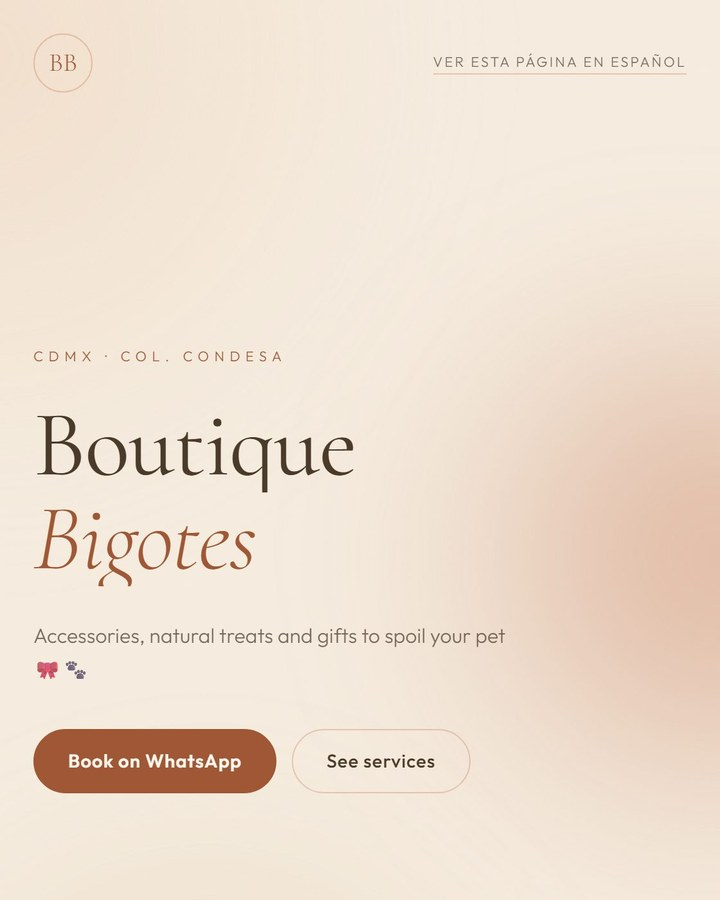
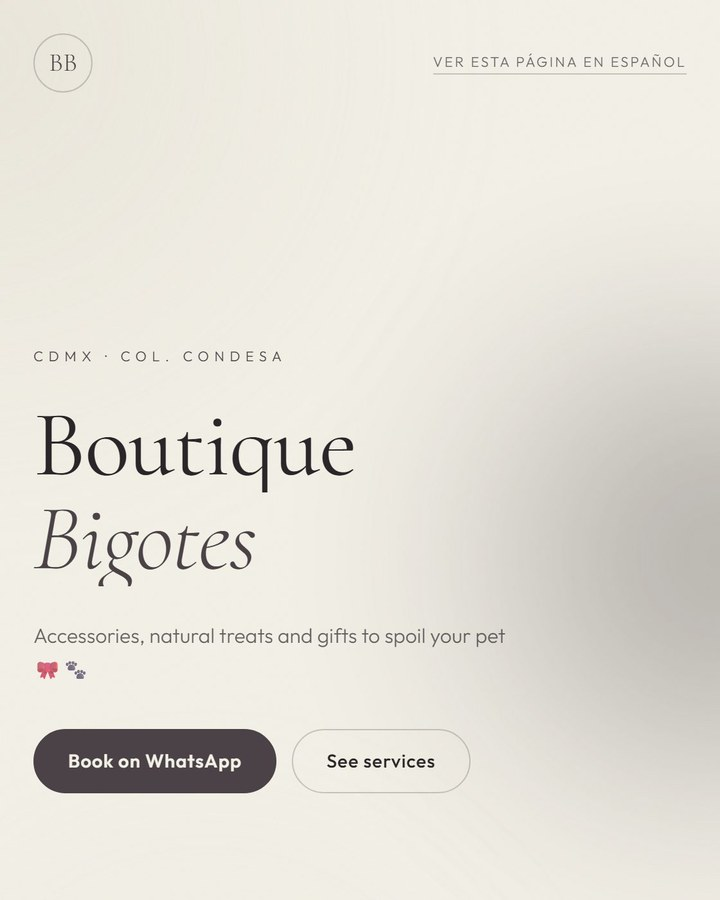
Tres paletas repintadas: Pink Grapefruit, Blue Chocolate, Ink & Ivory
Las tres paletas que Vero eligio de Pinterest y aprobo mirandolas, con sus
nombres nuevos en la landing, en la galeria de estilos y en el formulario de
Tally (parchado por API: 12 opciones con imagen, logica intacta).

El nombre visible y el slug quedan DESACOPLADOS (styles.aliases ->
BRAND_STYLE_ALIASES): el worker resolvia el estilo con slugify() del nombre que
la clienta lee, asi que renombrar una paleta mandaba al estilo de respaldo a
quien la eligiera — pagina del color equivocado, sin aviso. El slug no cambia
(lo llevan capturas, demos y clientes ya publicados); el nombre si.

Capturas de los 12 estilos regeneradas en los DOS idiomas y demos publicados
regenerados con las paletas nuevas.

diff --git a/public/es/index.html b/public/es/index.html
@@ -384,7 +384,7 @@ footer a:hover { color: #fff; text-decoration: underline; }
     <h2 class="reveal">12 estilos, hechos para negocios de mascotas.</h2>
     <p class="lead reveal">Elige uno y tu tarjeta se ve bien desde el primer día. Cada captura es un negocio de ejemplo distinto en su propio estilo — abre el que más te guste.</p>
     <div class="styles">
-      <article class="style reveal"><div class="style__shot"><img src="../assets/style-previews/sunny-paws.jpg" alt="Tarjeta de negocio de mascotas en el estilo Sunny Paws" loading="lazy" decoding="async"></div><div class="style__body"><h3>Sunny Paws</h3><p>Amarillo sol y naranja. Alegre, juguetón, amigable.</p><div class="style__for">Estéticas caninas</div><a class="style__link" href="../demos/spa-de-patas/">Ver Spa de Patas →</a></div></article><article class="style reveal"><div class="style__shot"><img src="../assets/style-previews/aqua-clean.jpg" alt="Tarjeta de negocio de mascotas en el estilo Aqua Clean" loading="lazy" decoding="async"></div><div class="style__body"><h3>Aqua Clean</h3><p>Blanco aqua y turquesa. Limpio, fresco, transmite higiene.</p><div class="style__for">Veterinarias</div><a class="style__link" href="../demos/veterinaria-altavida/">Ver Veterinaria AltaVida →</a></div></article><article class="style reveal"><div class="style__shot"><img src="../assets/style-previews/sage-calm.jpg" alt="Tarjeta de negocio de mascotas en el estilo Sage Calm" loading="lazy" decoding="async"></div><div class="style__body"><h3>Sage Calm</h3><p>Salvia y marfil. Natural, relajante, orgánico.</p><div class="style__for">Hoteles y guarderías</div><a class="style__link" href="../demos/hotel-colitas/">Ver Hotel Colitas →</a></div></article><article class="style reveal"><div class="style__shot"><img src="../assets/style-previews/warm-sand.jpg" alt="Tarjeta de negocio de mascotas en el estilo Warm Sand" loading="lazy" decoding="async"></div><div class="style__body"><h3>Warm Sand</h3><p>Arena y terracota. Cálido, cercano, boutique.</p><div class="style__for">Boutiques</div><a class="style__link" href="../demos/boutique-bigotes/">Ver Boutique Bigotes →</a></div></article><article class="style reveal"><div class="style__shot"><img src="../assets/style-previews/black-gold.jpg" alt="Tarjeta de negocio de mascotas en el estilo Black Gold" loading="lazy" decoding="async"></div><div class="style__body"><h3>Black Gold</h3><p>Negro profundo con dorado. Elegante y premium.</p><div class="style__for">Boutiques</div><a class="style__link" href="../demos/canela-y-oro/">Ver Canela &amp; Oro →</a></div></article><article class="style reveal"><div class="style__shot"><img src="../assets/style-previews/soft-blush.jpg" alt="Tarjeta de negocio de mascotas en el estilo Soft Blush" loading="lazy" decoding="async"></div><div class="style__body"><h3>Soft Blush</h3><p>Rosa suave y delicado. Cariñoso y amable.</p><div class="style__for">Spa y estética</div><a class="style__link" href="../demos/pelusa-rosa/">Ver Pelusa Rosa →</a></div></article><article class="style reveal"><div class="style__shot"><img src="../assets/style-previews/charcoal-clean.jpg" alt="Tarjeta de negocio de mascotas en el estilo Charcoal Clean" loading="lazy" decoding="async"></div><div class="style__body"><h3>Charcoal Clean</h3><p>Carbón sobrio y blanco limpio. Moderno y profesional.</p><div class="style__for">Veterinarias y entrenamiento</div><a class="style__link" href="../demos/clinica-vetta/">Ver Clínica Vetta →</a></div></article><article class="style reveal"><div class="style__shot"><img src="../assets/style-previews/electric-slate.jpg" alt="Tarjeta de negocio de mascotas en el estilo Electric Slate" loading="lazy" decoding="async"></div><div class="style__body"><h3>Electric Slate</h3><p>Pizarra con acento eléctrico. Audaz y con movimiento.</p><div class="style__for">Entrenamiento y guarderías</div><a class="style__link" href="../demos/academia-ladra/">Ver Academia Ladra →</a></div></article><article class="style reveal"><div class="style__shot"><img src="../assets/style-previews/terracotta-warm.jpg" alt="Tarjeta de negocio de mascotas en el estilo Terracotta Warm" loading="lazy" decoding="async"></div><div class="style__body"><h3>Terracotta Warm</h3><p>Terracota cálido y crema. Artesanal y acogedor.</p><div class="style__for">Boutiques y hospedaje</div><a class="style__link" href="../demos/casa-terracota/">Ver Casa Terracota →</a></div></article><article class="style reveal"><div class="style__shot"><img src="../assets/style-previews/midnight-ink.jpg" alt="Tarjeta de negocio de mascotas en el estilo Midnight Ink" loading="lazy" decoding="async"></div><div class="style__body"><h3>Midnight Ink</h3><p>Tinta de medianoche, sobrio y distinguido.</p><div class="style__for">Servicios premium</div><a class="style__link" href="../demos/medianoche-pet-club/">Ver Medianoche Pet Club →</a></div></article><article class="style reveal"><div class="style__shot"><img src="../assets/style-previews/clarity-editorial.jpg" alt="Tarjeta de negocio de mascotas en el estilo Clarity Editorial" loading="lazy" decoding="async"></div><div class="style__body"><h3>Clarity Editorial</h3><p>Editorial y ordenado. Hecho para listas largas de servicios.</p><div class="style__for">Negocios con muchos servicios</div><a class="style__link" href="../demos/central-mascotas/">Ver Central Mascotas →</a></div></article><article class="style reveal"><div class="style__shot"><img src="../assets/style-previews/horizon-teal.jpg" alt="Tarjeta de negocio de mascotas en el estilo Horizon Teal" loading="lazy" decoding="async"></div><div class="style__body"><h3>Horizon Teal</h3><p>Horizonte turquesa. Fresco y confiable.</p><div class="style__for">Hospedaje y veterinarias</div><a class="style__link" href="../demos/bahia-azul/">Ver Bahía Azul →</a></div></article>
+      <article class="style reveal"><div class="style__shot"><img src="../assets/style-previews/sunny-paws.jpg" alt="Tarjeta de negocio de mascotas en el estilo Pink Grapefruit" loading="lazy" decoding="async"></div><div class="style__body"><h3>Pink Grapefruit</h3><p>Rosa pomelo con amarillo. Jugoso, fresco y con energía.</p><div class="style__for">Estéticas caninas</div><a class="style__link" href="../demos/spa-de-patas/">Ver Spa de Patas →</a></div></article><article class="style reveal"><div class="style__shot"><img src="../assets/style-previews/aqua-clean.jpg" alt="Tarjeta de negocio de mascotas en el estilo Aqua Clean" loading="lazy" decoding="async"></div><div class="style__body"><h3>Aqua Clean</h3><p>Blanco aqua y turquesa. Limpio, fresco, transmite higiene.</p><div class="style__for">Veterinarias</div><a class="style__link" href="../demos/veterinaria-altavida/">Ver Veterinaria AltaVida →</a></div></article><article class="style reveal"><div class="style__shot"><img src="../assets/style-previews/sage-calm.jpg" alt="Tarjeta de negocio de mascotas en el estilo Sage Calm" loading="lazy" decoding="async"></div><div class="style__body"><h3>Sage Calm</h3><p>Salvia y marfil. Natural, relajante, orgánico.</p><div class="style__for">Hoteles y guarderías</div><a class="style__link" href="../demos/hotel-colitas/">Ver Hotel Colitas →</a></div></article><article class="style reveal"><div class="style__shot"><img src="../assets/style-previews/warm-sand.jpg" alt="Tarjeta de negocio de mascotas en el estilo Ink &amp; Ivory" loading="lazy" decoding="async"></div><div class="style__body"><h3>Ink &amp; Ivory</h3><p>Carbón y marfil. Mínimo, editorial y atemporal.</p><div class="style__for">Boutiques</div><a class="style__link" href="../demos/boutique-bigotes/">Ver Boutique Bigotes →</a></div></article><article class="style reveal"><div class="style__shot"><img src="../assets/style-previews/black-gold.jpg" alt="Tarjeta de negocio de mascotas en el estilo Black Gold" loading="lazy" decoding="async"></div><div class="style__body"><h3>Black Gold</h3><p>Negro profundo con dorado. Elegante y premium.</p><div class="style__for">Boutiques</div><a class="style__link" href="../demos/canela-y-oro/">Ver Canela &amp; Oro →</a></div></article><article class="style reveal"><div class="style__shot"><img src="../assets/style-previews/soft-blush.jpg" alt="Tarjeta de negocio de mascotas en el estilo Soft Blush" loading="lazy" decoding="async"></div><div class="style__body"><h3>Soft Blush</h3><p>Rosa suave y delicado. Cariñoso y amable.</p><div class="style__for">Spa y estética</div><a class="style__link" href="../demos/pelusa-rosa/">Ver Pelusa Rosa →</a></div></article><article class="style reveal"><div class="style__shot"><img src="../assets/style-previews/charcoal-clean.jpg" alt="Tarjeta de negocio de mascotas en el estilo Charcoal Clean" loading="lazy" decoding="async"></div><div class="style__body"><h3>Charcoal Clean</h3><p>Carbón sobrio y blanco limpio. Moderno y profesional.</p><div class="style__for">Veterinarias y entrenamiento</div><a class="style__link" href="../demos/clinica-vetta/">Ver Clínica Vetta →</a></div></article><article class="style reveal"><div class="style__shot"><img src="../assets/style-previews/electric-slate.jpg" alt="Tarjeta de negocio de mascotas en el estilo Electric Slate" loading="lazy" decoding="async"></div><div class="style__body"><h3>Electric Slate</h3><p>Pizarra con acento eléctrico. Audaz y con movimiento.</p><div class="style__for">Entrenamiento y guarderías</div><a class="style__link" href="../demos/academia-ladra/">Ver Academia Ladra →</a></div></article><article class="style reveal"><div class="style__shot"><img src="../assets/style-previews/terracotta-warm.jpg" alt="Tarjeta de negocio de mascotas en el estilo Terracotta Warm" loading="lazy" decoding="async"></div><div class="style__body"><h3>Terracotta Warm</h3><p>Terracota cálido y crema. Artesanal y acogedor.</p><div class="style__for">Boutiques y hospedaje</div><a class="style__link" href="../demos/casa-terracota/">Ver Casa Terracota →</a></div></article><article class="style reveal"><div class="style__shot"><img src="../assets/style-previews/midnight-ink.jpg" alt="Tarjeta de negocio de mascotas en el estilo Midnight Ink" loading="lazy" decoding="async"></div><div class="style__body"><h3>Midnight Ink</h3><p>Tinta de medianoche, sobrio y distinguido.</p><div class="style__for">Servicios premium</div><a class="style__link" href="../demos/medianoche-pet-club/">Ver Medianoche Pet Club →</a></div></article><article class="style reveal"><div class="style__shot"><img src="../assets/style-previews/clarity-editorial.jpg" alt="Tarjeta de negocio de mascotas en el estilo Clarity Editorial" loading="lazy" decoding="async"></div><div class="style__body"><h3>Clarity Editorial</h3><p>Editorial y ordenado. Hecho para listas largas de servicios.</p><div class="style__for">Negocios con muchos servicios</div><a class="style__link" href="../demos/central-mascotas/">Ver Central Mascotas →</a></div></article><article class="style reveal"><div class="style__shot"><img src="../assets/style-previews/horizon-teal.jpg" alt="Tarjeta de negocio de mascotas en el estilo Blue Chocolate" loading="lazy" decoding="async"></div><div class="style__body"><h3>Blue Chocolate</h3><p>Azul cielo con chocolate. Moderno, claro y con carácter.</p><div class="style__for">Hospedaje y veterinarias</div><a class="style__link" href="../demos/bahia-azul/">Ver Bahía Azul →</a></div></article>
     </div>
   </div>
 </section>

diff --git a/public/index.html b/public/index.html
@@ -384,7 +384,7 @@ footer a:hover { color: #fff; text-decoration: underline; }
     <h2 class="reveal">12 styles, built for pet businesses.</h2>
     <p class="lead reveal">Pick one and your card looks polished from day one. Every screenshot below is a different example business in its own style — open the one you like.</p>
     <div class="styles">
-      <article class="style reveal"><div class="style__shot"><img src="assets/style-previews/en/sunny-paws.jpg" alt="Pet business card in the Sunny Paws style" loading="lazy" decoding="async"></div><div class="style__body"><h3>Sunny Paws</h3><p>Bright yellow and orange. Playful, friendly, full of energy.</p><div class="style__for">Grooming</div><a class="style__link" href="demos/spa-de-patas/en/">See Spa de Patas →</a></div></article><article class="style reveal"><div class="style__shot"><img src="assets/style-previews/en/aqua-clean.jpg" alt="Pet business card in the Aqua Clean style" loading="lazy" decoding="async"></div><div class="style__body"><h3>Aqua Clean</h3><p>Fresh, clean aqua blues. Communicates hygiene, water, and calm.</p><div class="style__for">Vet clinics</div><a class="style__link" href="demos/veterinaria-altavida/en/">See Veterinaria AltaVida →</a></div></article><article class="style reveal"><div class="style__shot"><img src="assets/style-previews/en/sage-calm.jpg" alt="Pet business card in the Sage Calm style" loading="lazy" decoding="async"></div><div class="style__body"><h3>Sage Calm</h3><p>Serene, balanced sage green. Minimal and organic.</p><div class="style__for">Boarding &amp; daycare</div><a class="style__link" href="demos/hotel-colitas/en/">See Hotel Colitas →</a></div></article><article class="style reveal"><div class="style__shot"><img src="assets/style-previews/en/warm-sand.jpg" alt="Pet business card in the Warm Sand style" loading="lazy" decoding="async"></div><div class="style__body"><h3>Warm Sand</h3><p>Sand and earth tones. Natural, warm, and artisanal.</p><div class="style__for">Pet boutiques</div><a class="style__link" href="demos/boutique-bigotes/en/">See Boutique Bigotes →</a></div></article><article class="style reveal"><div class="style__shot"><img src="assets/style-previews/en/black-gold.jpg" alt="Pet business card in the Black Gold style" loading="lazy" decoding="async"></div><div class="style__body"><h3>Black Gold</h3><p>Deep black with gold accents. Elegant and premium.</p><div class="style__for">Pet boutiques</div><a class="style__link" href="demos/canela-y-oro/en/">See Canela &amp; Oro →</a></div></article><article class="style reveal"><div class="style__shot"><img src="assets/style-previews/en/soft-blush.jpg" alt="Pet business card in the Soft Blush style" loading="lazy" decoding="async"></div><div class="style__body"><h3>Soft Blush</h3><p>Soft, delicate pink tones. Gentle and caring.</p><div class="style__for">Pet spa &amp; grooming</div><a class="style__link" href="demos/pelusa-rosa/en/">See Pelusa Rosa →</a></div></article><article class="style reveal"><div class="style__shot"><img src="assets/style-previews/en/charcoal-clean.jpg" alt="Pet business card in the Charcoal Clean style" loading="lazy" decoding="async"></div><div class="style__body"><h3>Charcoal Clean</h3><p>Sober charcoal and clean white. Modern and professional.</p><div class="style__for">Vet clinics &amp; training</div><a class="style__link" href="demos/clinica-vetta/en/">See Clínica Vetta →</a></div></article><article class="style reveal"><div class="style__shot"><img src="assets/style-previews/en/electric-slate.jpg" alt="Pet business card in the Electric Slate style" loading="lazy" decoding="async"></div><div class="style__body"><h3>Electric Slate</h3><p>Slate with an electric accent. Bold and full of movement.</p><div class="style__for">Training &amp; daycare</div><a class="style__link" href="demos/academia-ladra/en/">See Academia Ladra →</a></div></article><article class="style reveal"><div class="style__shot"><img src="assets/style-previews/en/terracotta-warm.jpg" alt="Pet business card in the Terracotta Warm style" loading="lazy" decoding="async"></div><div class="style__body"><h3>Terracotta Warm</h3><p>Warm terracotta and cream. Artisanal and welcoming.</p><div class="style__for">Boutiques &amp; boarding</div><a class="style__link" href="demos/casa-terracota/en/">See Casa Terracota →</a></div></article><article class="style reveal"><div class="style__shot"><img src="assets/style-previews/en/midnight-ink.jpg" alt="Pet business card in the Midnight Ink style" loading="lazy" decoding="async"></div><div class="style__body"><h3>Midnight Ink</h3><p>Midnight ink, restrained and distinguished.</p><div class="style__for">Premium services</div><a class="style__link" href="demos/medianoche-pet-club/en/">See Medianoche Pet Club →</a></div></article><article class="style reveal"><div class="style__shot"><img src="assets/style-previews/en/clarity-editorial.jpg" alt="Pet business card in the Clarity Editorial style" loading="lazy" decoding="async"></div><div class="style__body"><h3>Clarity Editorial</h3><p>Editorial and orderly. Made for long service lists.</p><div class="style__for">Multi-service businesses</div><a class="style__link" href="demos/central-mascotas/en/">See Central Mascotas →</a></div></article><article class="style reveal"><div class="style__shot"><img src="assets/style-previews/en/horizon-teal.jpg" alt="Pet business card in the Horizon Teal style" loading="lazy" decoding="async"></div><div class="style__body"><h3>Horizon Teal</h3><p>Open teal horizon. Fresh and trustworthy.</p><div class="style__for">Boarding &amp; vet clinics</div><a class="style__link" href="demos/bahia-azul/en/">See Bahía Azul →</a></div></article>
+      <article class="style reveal"><div class="style__shot"><img src="assets/style-previews/en/sunny-paws.jpg" alt="Pet business card in the Pink Grapefruit style" loading="lazy" decoding="async"></div><div class="style__body"><h3>Pink Grapefruit</h3><p>Grapefruit pink with yellow. Juicy, fresh and full of energy.</p><div class="style__for">Grooming</div><a class="style__link" href="demos/spa-de-patas/en/">See Spa de Patas →</a></div></article><article class="style reveal"><div class="style__shot"><img src="assets/style-previews/en/aqua-clean.jpg" alt="Pet business card in the Aqua Clean style" loading="lazy" decoding="async"></div><div class="style__body"><h3>Aqua Clean</h3><p>Fresh, clean aqua blues. Communicates hygiene, water, and calm.</p><div class="style__for">Vet clinics</div><a class="style__link" href="demos/veterinaria-altavida/en/">See Veterinaria AltaVida →</a></div></article><article class="style reveal"><div class="style__shot"><img src="assets/style-previews/en/sage-calm.jpg" alt="Pet business card in the Sage Calm style" loading="lazy" decoding="async"></div><div class="style__body"><h3>Sage Calm</h3><p>Serene, balanced sage green. Minimal and organic.</p><div class="style__for">Boarding &amp; daycare</div><a class="style__link" href="demos/hotel-colitas/en/">See Hotel Colitas →</a></div></article><article class="style reveal"><div class="style__shot"><img src="assets/style-previews/en/warm-sand.jpg" alt="Pet business card in the Ink &amp; Ivory style" loading="lazy" decoding="async"></div><div class="style__body"><h3>Ink &amp; Ivory</h3><p>Charcoal and ivory. Minimal, editorial and timeless.</p><div class="style__for">Pet boutiques</div><a class="style__link" href="demos/boutique-bigotes/en/">See Boutique Bigotes →</a></div></article><article class="style reveal"><div class="style__shot"><img src="assets/style-previews/en/black-gold.jpg" alt="Pet business card in the Black Gold style" loading="lazy" decoding="async"></div><div class="style__body"><h3>Black Gold</h3><p>Deep black with gold accents. Elegant and premium.</p><div class="style__for">Pet boutiques</div><a class="style__link" href="demos/canela-y-oro/en/">See Canela &amp; Oro →</a></div></article><article class="style reveal"><div class="style__shot"><img src="assets/style-previews/en/soft-blush.jpg" alt="Pet business card in the Soft Blush style" loading="lazy" decoding="async"></div><div class="style__body"><h3>Soft Blush</h3><p>Soft, delicate pink tones. Gentle and caring.</p><div class="style__for">Pet spa &amp; grooming</div><a class="style__link" href="demos/pelusa-rosa/en/">See Pelusa Rosa →</a></div></article><article class="style reveal"><div class="style__shot"><img src="assets/style-previews/en/charcoal-clean.jpg" alt="Pet business card in the Charcoal Clean style" loading="lazy" decoding="async"></div><div class="style__body"><h3>Charcoal Clean</h3><p>Sober charcoal and clean white. Modern and professional.</p><div class="style__for">Vet clinics &amp; training</div><a class="style__link" href="demos/clinica-vetta/en/">See Clínica Vetta →</a></div></article><article class="style reveal"><div class="style__shot"><img src="assets/style-previews/en/electric-slate.jpg" alt="Pet business card in the Electric Slate style" loading="lazy" decoding="async"></div><div class="style__body"><h3>Electric Slate</h3><p>Slate with an electric accent. Bold and full of movement.</p><div class="style__for">Training &amp; daycare</div><a class="style__link" href="demos/academia-ladra/en/">See Academia Ladra →</a></div></article><article class="style reveal"><div class="style__shot"><img src="assets/style-previews/en/terracotta-warm.jpg" alt="Pet business card in the Terracotta Warm style" loading="lazy" decoding="async"></div><div class="style__body"><h3>Terracotta Warm</h3><p>Warm terracotta and cream. Artisanal and welcoming.</p><div class="style__for">Boutiques &amp; boarding</div><a class="style__link" href="demos/casa-terracota/en/">See Casa Terracota →</a></div></article><article class="style reveal"><div class="style__shot"><img src="assets/style-previews/en/midnight-ink.jpg" alt="Pet business card in the Midnight Ink style" loading="lazy" decoding="async"></div><div class="style__body"><h3>Midnight Ink</h3><p>Midnight ink, restrained and distinguished.</p><div class="style__for">Premium services</div><a class="style__link" href="demos/medianoche-pet-club/en/">See Medianoche Pet Club →</a></div></article><article class="style reveal"><div class="style__shot"><img src="assets/style-previews/en/clarity-editorial.jpg" alt="Pet business card in the Clarity Editorial style" loading="lazy" decoding="async"></div><div class="style__body"><h3>Clarity Editorial</h3><p>Editorial and orderly. Made for long service lists.</p><div class="style__for">Multi-service businesses</div><a class="style__link" href="demos/central-mascotas/en/">See Central Mascotas →</a></div></article><article class="style reveal"><div class="style__shot"><img src="assets/style-previews/en/horizon-teal.jpg" alt="Pet business card in the Blue Chocolate style" loading="lazy" decoding="async"></div><div class="style__body"><h3>Blue Chocolate</h3><p>Sky blue with chocolate. Modern, bright and full of character.</p><div class="style__for">Boarding &amp; vet clinics</div><a class="style__link" href="demos/bahia-azul/en/">See Bahía Azul →</a></div></article>
     </div>
   </div>
 </section>

diff --git a/worker/worker.js b/worker/worker.js
@@ -59,7 +59,7 @@
  */
 
 import { classifyStripeEvent } from './stripe-filter.mjs';
-import { kvKey, brandName, brandTagline, brandDomain, emailFooterHtml, emailFooterText, corsOrigin, validBrandStyles, fallbackBrandStyle, prospectPrefillBase, prospectSlug, buildPrefillQuery, workerName, normalizeKey, languageQuestionAliases, resolveDefaultLanguage, correctionMetadataKey, emailLangFromCurrency, sanitizeBase64Image, freeChanges, modificationFormPrefillEnabled, expandProspectPrefill, pageTemplate, normalizeSaleKind, normalizeSaleValue, runtimeConfigErrors, SALE_BUTTON_KINDS } from './product-config.mjs';
+import { kvKey, brandName, brandTagline, brandDomain, emailFooterHtml, emailFooterText, corsOrigin, validBrandStyles, brandStyleAliases, fallbackBrandStyle, prospectPrefillBase, prospectSlug, buildPrefillQuery, workerName, normalizeKey, languageQuestionAliases, resolveDefaultLanguage, correctionMetadataKey, emailLangFromCurrency, sanitizeBase64Image, freeChanges, modificationFormPrefillEnabled, expandProspectPrefill, pageTemplate, normalizeSaleKind, normalizeSaleValue, runtimeConfigErrors, SALE_BUTTON_KINDS } from './product-config.mjs';
 // Mapa campo-público -> alias de título del intake de Tally, única fuente de
 // verdad compartida con create_tally_forms.py --check-mapping (ver el archivo).
 // Es config por vertical: export_vertical.py copia este JSON a cada repo, así
@@ -2445,8 +2445,17 @@ function intakeIdentity(normalized, orderId, env) {
   let styleUnmapped = false;
   const validStyles = validBrandStyles(env || {});
   if (!validStyles.includes(brandStyle)) {
-    styleUnmapped = true;
-    brandStyle = fallbackBrandStyle(validStyles);
+    // Antes del respaldo, el mapa nombre-comercial -> slug: una paleta que se
+    // repinta cambia de nombre pero NO de slug (ver brandStyleAliases). Sin
+    // este paso, renombrar 'Sunny Paws' a 'Pink Grapefruit' hacía que cada
+    // clienta que lo eligiera recibiera el estilo de respaldo en silencio.
+    const alias = brandStyleAliases(env || {}, validStyles)[brandStyle];
+    if (alias) {
+      brandStyle = alias;
+    } else {
+      styleUnmapped = true;
+      brandStyle = fallbackBrandStyle(validStyles);
+    }
   }
 
   // fieldAliases('default_language') solo trae alias genéricos (sin marca); los

diff --git a/public/demos/spa-de-patas/en/index.html b/public/demos/spa-de-patas/en/index.html
@@ -25,17 +25,24 @@
    ============================================================ */
 
 /* ---- Paleta por estilo (inyectada: uno de los 12 estilos cerrados) ---- */
-/* sunny-paws - alegre, jugueton, amigable. Pet grooming / servicios para mascotas.
-   Paleta WOW: amarillo sol + naranja + blanco calido. Base clara, alt miel oscura. */
+/* sunny-paws (Pink Grapefruit) - jugoso, fresco y con energia. Paleta de Vero (Pinterest,
+   2026-08-02) + su referencia de composicion: #eed8d5 rosa suave +
+   #eacc83 amarillo + #cb616f pomelo.
+   v4, la que Vero aprobo mirando: el ROSA ES EL FONDO, no un pastel de
+   relleno; el titulo en cursiva y los botones van en AMARILLO; el degradado
+   amarillo baja por el hero. El rosa se afina de #cb616f a #b44656 porque
+   sobre el pomelo original el texto daba 3.27 y no se leia; a simple vista
+   es el mismo rosa y ahora da 4.53. Tema alt en rosa palido para que la
+   pagina respire entre secciones. */
 :root{
-  --base-bg:#fffaf0; --base-ink:#46351d; --base-soft:rgba(70,53,29,.7);
-  --base-hair:rgba(255,159,28,.35); --base-accent:#a35f00; --base-accent-ink:#fff8ec;
-  --alt-bg:#3b2a10; --alt-ink:#fdf3e3; --alt-soft:rgba(253,243,227,.65);
-  --alt-hair:rgba(255,193,105,.3); --alt-accent:#ffc169; --alt-accent-ink:#3b2a10;
-  --panel-bg:#3b2a10; --panel-ink:#fdf3e3; --panel-soft:rgba(253,243,227,.66);
-  --panel-hair:rgba(255,193,105,.4); --panel-accent:#ffc169;
-  --blob-a:#ffd9a0; --blob-b:#ff9f1c; --blob-c:#ffeccc; --blob-opacity:.5;
-  --dock-glow:rgba(240,140,0,.35); --dock-glow-strong:rgba(240,140,0,.55);
+  --base-bg:#b44656; --base-ink:#fbe9e6; --base-soft:rgba(251,233,230,.78);
+  --base-hair:rgba(234,204,131,.42); --base-accent:#eacc83; --base-accent-ink:#4e1f28;
+  --alt-bg:#eed8d5; --alt-ink:#4e1f28; --alt-soft:rgba(78,31,40,.72);
+  --alt-hair:rgba(180,70,86,.4); --alt-accent:#b44656; --alt-accent-ink:#fff8f7;
+  --panel-bg:#eacc83; --panel-ink:#4e1f28; --panel-soft:rgba(78,31,40,.75);
+  --panel-hair:rgba(78,31,40,.35); --panel-accent:#b44656;
+  --blob-a:#eacc83; --blob-b:#cb616f; --blob-c:#f7d9a8; --blob-opacity:.66;
+  --dock-glow:rgba(234,204,131,.5); --dock-glow-strong:rgba(234,204,131,.7);
 }
 
 

diff --git a/public/demos/spa-de-patas/index.html b/public/demos/spa-de-patas/index.html
@@ -25,17 +25,24 @@
    ============================================================ */
 
 /* ---- Paleta por estilo (inyectada: uno de los 12 estilos cerrados) ---- */
-/* sunny-paws - alegre, jugueton, amigable. Pet grooming / servicios para mascotas.
-   Paleta WOW: amarillo sol + naranja + blanco calido. Base clara, alt miel oscura. */
+/* sunny-paws (Pink Grapefruit) - jugoso, fresco y con energia. Paleta de Vero (Pinterest,
+   2026-08-02) + su referencia de composicion: #eed8d5 rosa suave +
+   #eacc83 amarillo + #cb616f pomelo.
+   v4, la que Vero aprobo mirando: el ROSA ES EL FONDO, no un pastel de
+   relleno; el titulo en cursiva y los botones van en AMARILLO; el degradado
+   amarillo baja por el hero. El rosa se afina de #cb616f a #b44656 porque
+   sobre el pomelo original el texto daba 3.27 y no se leia; a simple vista
+   es el mismo rosa y ahora da 4.53. Tema alt en rosa palido para que la
+   pagina respire entre secciones. */
 :root{
-  --base-bg:#fffaf0; --base-ink:#46351d; --base-soft:rgba(70,53,29,.7);
-  --base-hair:rgba(255,159,28,.35); --base-accent:#a35f00; --base-accent-ink:#fff8ec;
-  --alt-bg:#3b2a10; --alt-ink:#fdf3e3; --alt-soft:rgba(253,243,227,.65);
-  --alt-hair:rgba(255,193,105,.3); --alt-accent:#ffc169; --alt-accent-ink:#3b2a10;
-  --panel-bg:#3b2a10; --panel-ink:#fdf3e3; --panel-soft:rgba(253,243,227,.66);
-  --panel-hair:rgba(255,193,105,.4); --panel-accent:#ffc169;
-  --blob-a:#ffd9a0; --blob-b:#ff9f1c; --blob-c:#ffeccc; --blob-opacity:.5;
-  --dock-glow:rgba(240,140,0,.35); --dock-glow-strong:rgba(240,140,0,.55);
+  --base-bg:#b44656; --base-ink:#fbe9e6; --base-soft:rgba(251,233,230,.78);
+  --base-hair:rgba(234,204,131,.42); --base-accent:#eacc83; --base-accent-ink:#4e1f28;
+  --alt-bg:#eed8d5; --alt-ink:#4e1f28; --alt-soft:rgba(78,31,40,.72);
+  --alt-hair:rgba(180,70,86,.4); --alt-accent:#b44656; --alt-accent-ink:#fff8f7;
+  --panel-bg:#eacc83; --panel-ink:#4e1f28; --panel-soft:rgba(78,31,40,.75);
+  --panel-hair:rgba(78,31,40,.35); --panel-accent:#b44656;
+  --blob-a:#eacc83; --blob-b:#cb616f; --blob-c:#f7d9a8; --blob-opacity:.66;
+  --dock-glow:rgba(234,204,131,.5); --dock-glow-strong:rgba(234,204,131,.7);
 }
 
 

diff --git a/public/demos/bahia-azul/en/index.html b/public/demos/bahia-azul/en/index.html
@@ -25,17 +25,21 @@
    ============================================================ */
 
 /* ---- Paleta por estilo (inyectada: uno de los 12 estilos cerrados) ---- */
-/* horizon-teal - aventurero, fresco, expansivo. Tours / experiencias / actividades al aire libre.
-   Paleta WOW: teal profundo + arena calida. Base arena, alt teal nocturno. */
+/* horizon-teal (Blue Chocolate) - moderno, claro y con caracter. Paleta de Vero (Pinterest,
+   2026-08-02): #D1EEFE azul cielo + #432E1B chocolate. Eligio la version de
+   fondo AZUL. Los blobs van en BEIGE, no en cafe: el cafe medio sobre el azul
+   se leia como una mancha sucia (lo cazo ella mirando el hero). El beige sale
+   del mismo chocolate aclarado, asi que la familia se conserva. El chocolate
+   entero queda para tinta, botones y el panel destacado. */
 :root{
-  --base-bg:#f5f1e6; --base-ink:#0f2e2e; --base-soft:rgba(15,46,46,.66);
-  --base-hair:rgba(15,110,110,.3); --base-accent:#0f6e6e; --base-accent-ink:#f2f8f6;
-  --alt-bg:#0c3535; --alt-ink:#e9f4f0; --alt-soft:rgba(233,244,240,.65);
-  --alt-hair:rgba(124,198,184,.28); --alt-accent:#7cc6b8; --alt-accent-ink:#0c3535;
-  --panel-bg:#0c3535; --panel-ink:#e9f4f0; --panel-soft:rgba(233,244,240,.66);
-  --panel-hair:rgba(124,198,184,.4); --panel-accent:#7cc6b8;
-  --blob-a:#9fd3c8; --blob-b:#0f6e6e; --blob-c:#e8dcbd; --blob-opacity:.5;
-  --dock-glow:rgba(15,110,110,.3); --dock-glow-strong:rgba(15,110,110,.5);
+  --base-bg:#d1eefe; --base-ink:#3a2817; --base-soft:rgba(58,40,23,.74);
+  --base-hair:rgba(67,46,27,.3); --base-accent:#432e1b; --base-accent-ink:#eaf6ff;
+  --alt-bg:#432e1b; --alt-ink:#e6f4fe; --alt-soft:rgba(230,244,254,.72);
+  --alt-hair:rgba(209,238,254,.34); --alt-accent:#a9dcf6; --alt-accent-ink:#33220f;
+  --panel-bg:#432e1b; --panel-ink:#e6f4fe; --panel-soft:rgba(230,244,254,.72);
+  --panel-hair:rgba(209,238,254,.4); --panel-accent:#a9dcf6;
+  --blob-a:#e8dbc8; --blob-b:#d5c3aa; --blob-c:#f2ece1; --blob-opacity:.6;
+  --dock-glow:rgba(67,46,27,.4); --dock-glow-strong:rgba(67,46,27,.6);
 }
 
 

diff --git a/public/demos/bahia-azul/index.html b/public/demos/bahia-azul/index.html
@@ -25,17 +25,21 @@
    ============================================================ */
 
 /* ---- Paleta por estilo (inyectada: uno de los 12 estilos cerrados) ---- */
-/* horizon-teal - aventurero, fresco, expansivo. Tours / experiencias / actividades al aire libre.
-   Paleta WOW: teal profundo + arena calida. Base arena, alt teal nocturno. */
+/* horizon-teal (Blue Chocolate) - moderno, claro y con caracter. Paleta de Vero (Pinterest,
+   2026-08-02): #D1EEFE azul cielo + #432E1B chocolate. Eligio la version de
+   fondo AZUL. Los blobs van en BEIGE, no en cafe: el cafe medio sobre el azul
+   se leia como una mancha sucia (lo cazo ella mirando el hero). El beige sale
+   del mismo chocolate aclarado, asi que la familia se conserva. El chocolate
+   entero queda para tinta, botones y el panel destacado. */
 :root{
-  --base-bg:#f5f1e6; --base-ink:#0f2e2e; --base-soft:rgba(15,46,46,.66);
-  --base-hair:rgba(15,110,110,.3); --base-accent:#0f6e6e; --base-accent-ink:#f2f8f6;
-  --alt-bg:#0c3535; --alt-ink:#e9f4f0; --alt-soft:rgba(233,244,240,.65);
-  --alt-hair:rgba(124,198,184,.28); --alt-accent:#7cc6b8; --alt-accent-ink:#0c3535;
-  --panel-bg:#0c3535; --panel-ink:#e9f4f0; --panel-soft:rgba(233,244,240,.66);
-  --panel-hair:rgba(124,198,184,.4); --panel-accent:#7cc6b8;
-  --blob-a:#9fd3c8; --blob-b:#0f6e6e; --blob-c:#e8dcbd; --blob-opacity:.5;
-  --dock-glow:rgba(15,110,110,.3); --dock-glow-strong:rgba(15,110,110,.5);
+  --base-bg:#d1eefe; --base-ink:#3a2817; --base-soft:rgba(58,40,23,.74);
+  --base-hair:rgba(67,46,27,.3); --base-accent:#432e1b; --base-accent-ink:#eaf6ff;
+  --alt-bg:#432e1b; --alt-ink:#e6f4fe; --alt-soft:rgba(230,244,254,.72);
+  --alt-hair:rgba(209,238,254,.34); --alt-accent:#a9dcf6; --alt-accent-ink:#33220f;
+  --panel-bg:#432e1b; --panel-ink:#e6f4fe; --panel-soft:rgba(230,244,254,.72);
+  --panel-hair:rgba(209,238,254,.4); --panel-accent:#a9dcf6;
+  --blob-a:#e8dbc8; --blob-b:#d5c3aa; --blob-c:#f2ece1; --blob-opacity:.6;
+  --dock-glow:rgba(67,46,27,.4); --dock-glow-strong:rgba(67,46,27,.6);
 }
 
 

diff --git a/generator/styles/sunny-paws.css b/generator/styles/sunny-paws.css
@@ -1,12 +1,19 @@
-/* sunny-paws - alegre, jugueton, amigable. Pet grooming / servicios para mascotas.
-   Paleta WOW: amarillo sol + naranja + blanco calido. Base clara, alt miel oscura. */
+/* sunny-paws (Pink Grapefruit) - jugoso, fresco y con energia. Paleta de Vero (Pinterest,
+   2026-08-02) + su referencia de composicion: #eed8d5 rosa suave +
+   #eacc83 amarillo + #cb616f pomelo.
+   v4, la que Vero aprobo mirando: el ROSA ES EL FONDO, no un pastel de
+   relleno; el titulo en cursiva y los botones van en AMARILLO; el degradado
+   amarillo baja por el hero. El rosa se afina de #cb616f a #b44656 porque
+   sobre el pomelo original el texto daba 3.27 y no se leia; a simple vista
+   es el mismo rosa y ahora da 4.53. Tema alt en rosa palido para que la
+   pagina respire entre secciones. */
 :root{
-  --base-bg:#fffaf0; --base-ink:#46351d; --base-soft:rgba(70,53,29,.7);
-  --base-hair:rgba(255,159,28,.35); --base-accent:#a35f00; --base-accent-ink:#fff8ec;
-  --alt-bg:#3b2a10; --alt-ink:#fdf3e3; --alt-soft:rgba(253,243,227,.65);
-  --alt-hair:rgba(255,193,105,.3); --alt-accent:#ffc169; --alt-accent-ink:#3b2a10;
-  --panel-bg:#3b2a10; --panel-ink:#fdf3e3; --panel-soft:rgba(253,243,227,.66);
-  --panel-hair:rgba(255,193,105,.4); --panel-accent:#ffc169;
-  --blob-a:#ffd9a0; --blob-b:#ff9f1c; --blob-c:#ffeccc; --blob-opacity:.5;
-  --dock-glow:rgba(240,140,0,.35); --dock-glow-strong:rgba(240,140,0,.55);
+  --base-bg:#b44656; --base-ink:#fbe9e6; --base-soft:rgba(251,233,230,.78);
+  --base-hair:rgba(234,204,131,.42); --base-accent:#eacc83; --base-accent-ink:#4e1f28;
+  --alt-bg:#eed8d5; --alt-ink:#4e1f28; --alt-soft:rgba(78,31,40,.72);
+  --alt-hair:rgba(180,70,86,.4); --alt-accent:#b44656; --alt-accent-ink:#fff8f7;
+  --panel-bg:#eacc83; --panel-ink:#4e1f28; --panel-soft:rgba(78,31,40,.75);
+  --panel-hair:rgba(78,31,40,.35); --panel-accent:#b44656;
+  --blob-a:#eacc83; --blob-b:#cb616f; --blob-c:#f7d9a8; --blob-opacity:.66;
+  --dock-glow:rgba(234,204,131,.5); --dock-glow-strong:rgba(234,204,131,.7);
 }

diff --git a/generator/styles/horizon-teal.css b/generator/styles/horizon-teal.css
@@ -1,12 +1,16 @@
-/* horizon-teal - aventurero, fresco, expansivo. Tours / experiencias / actividades al aire libre.
-   Paleta WOW: teal profundo + arena calida. Base arena, alt teal nocturno. */
+/* horizon-teal (Blue Chocolate) - moderno, claro y con caracter. Paleta de Vero (Pinterest,
+   2026-08-02): #D1EEFE azul cielo + #432E1B chocolate. Eligio la version de
+   fondo AZUL. Los blobs van en BEIGE, no en cafe: el cafe medio sobre el azul
+   se leia como una mancha sucia (lo cazo ella mirando el hero). El beige sale
+   del mismo chocolate aclarado, asi que la familia se conserva. El chocolate
+   entero queda para tinta, botones y el panel destacado. */
 :root{
-  --base-bg:#f5f1e6; --base-ink:#0f2e2e; --base-soft:rgba(15,46,46,.66);
-  --base-hair:rgba(15,110,110,.3); --base-accent:#0f6e6e; --base-accent-ink:#f2f8f6;
-  --alt-bg:#0c3535; --alt-ink:#e9f4f0; --alt-soft:rgba(233,244,240,.65);
-  --alt-hair:rgba(124,198,184,.28); --alt-accent:#7cc6b8; --alt-accent-ink:#0c3535;
-  --panel-bg:#0c3535; --panel-ink:#e9f4f0; --panel-soft:rgba(233,244,240,.66);
-  --panel-hair:rgba(124,198,184,.4); --panel-accent:#7cc6b8;
-  --blob-a:#9fd3c8; --blob-b:#0f6e6e; --blob-c:#e8dcbd; --blob-opacity:.5;
-  --dock-glow:rgba(15,110,110,.3); --dock-glow-strong:rgba(15,110,110,.5);
+  --base-bg:#d1eefe; --base-ink:#3a2817; --base-soft:rgba(58,40,23,.74);
+  --base-hair:rgba(67,46,27,.3); --base-accent:#432e1b; --base-accent-ink:#eaf6ff;
+  --alt-bg:#432e1b; --alt-ink:#e6f4fe; --alt-soft:rgba(230,244,254,.72);
+  --alt-hair:rgba(209,238,254,.34); --alt-accent:#a9dcf6; --alt-accent-ink:#33220f;
+  --panel-bg:#432e1b; --panel-ink:#e6f4fe; --panel-soft:rgba(230,244,254,.72);
+  --panel-hair:rgba(209,238,254,.4); --panel-accent:#a9dcf6;
+  --blob-a:#e8dbc8; --blob-b:#d5c3aa; --blob-c:#f2ece1; --blob-opacity:.6;
+  --dock-glow:rgba(67,46,27,.4); --dock-glow-strong:rgba(67,46,27,.6);
 }

diff --git a/public/demos/boutique-bigotes/en/index.html b/public/demos/boutique-bigotes/en/index.html
@@ -25,17 +25,20 @@
    ============================================================ */
 
 /* ---- Paleta por estilo (inyectada: uno de los 12 estilos cerrados) ---- */
-/* warm-sand - calido, cercano, boutique. Nails / salones / wellness calido.
-   Paleta WOW: arena / crema + terracota. Base clara, alt espresso calido. */
+/* warm-sand (Ink & Ivory) - minimo, editorial y atemporal. Paleta elegida por Vero
+   (Pinterest, 2026-08-02): carbon + marfil palido, dos colores y nada mas.
+   13.2 de contraste: la mas legible de las tres. El acento es el mismo
+   carbon aclarado, para no meter un color que la paleta no tiene.
+   Base marfil, alt carbon. */
 :root{
-  --base-bg:#f6ede0; --base-ink:#4a3a2a; --base-soft:rgba(74,58,42,.74);
-  --base-hair:rgba(192,106,67,.3); --base-accent:#a05735; --base-accent-ink:#fff7ee;
-  --alt-bg:#3a2517; --alt-ink:#f6ead9; --alt-soft:rgba(246,234,217,.65);
-  --alt-hair:rgba(224,149,108,.3); --alt-accent:#e0956c; --alt-accent-ink:#3a2517;
-  --panel-bg:#3a2517; --panel-ink:#f6ead9; --panel-soft:rgba(246,234,217,.66);
-  --panel-hair:rgba(224,149,108,.4); --panel-accent:#e0956c;
-  --blob-a:#eecfb4; --blob-b:#c06a43; --blob-c:#d9b98c; --blob-opacity:.5;
-  --dock-glow:rgba(192,106,67,.35); --dock-glow-strong:rgba(192,106,67,.55);
+  --base-bg:#f3f0e7; --base-ink:#2a2529; --base-soft:rgba(42,37,41,.7);
+  --base-hair:rgba(42,37,41,.22); --base-accent:#4a4247; --base-accent-ink:#f3f0e7;
+  --alt-bg:#2a2529; --alt-ink:#f3f0e7; --alt-soft:rgba(243,240,231,.68);
+  --alt-hair:rgba(243,240,231,.22); --alt-accent:#d8d2c4; --alt-accent-ink:#2a2529;
+  --panel-bg:#2a2529; --panel-ink:#f3f0e7; --panel-soft:rgba(243,240,231,.66);
+  --panel-hair:rgba(243,240,231,.3); --panel-accent:#d8d2c4;
+  --blob-a:#d8d2c4; --blob-b:#2a2529; --blob-c:#e8e4d8; --blob-opacity:.4;
+  --dock-glow:rgba(42,37,41,.3); --dock-glow-strong:rgba(42,37,41,.5);
 }
 
 

diff --git a/public/demos/boutique-bigotes/index.html b/public/demos/boutique-bigotes/index.html
@@ -25,17 +25,20 @@
    ============================================================ */
 
 /* ---- Paleta por estilo (inyectada: uno de los 12 estilos cerrados) ---- */
-/* warm-sand - calido, cercano, boutique. Nails / salones / wellness calido.
-   Paleta WOW: arena / crema + terracota. Base clara, alt espresso calido. */
+/* warm-sand (Ink & Ivory) - minimo, editorial y atemporal. Paleta elegida por Vero
+   (Pinterest, 2026-08-02): carbon + marfil palido, dos colores y nada mas.
+   13.2 de contraste: la mas legible de las tres. El acento es el mismo
+   carbon aclarado, para no meter un color que la paleta no tiene.
+   Base marfil, alt carbon. */
 :root{
-  --base-bg:#f6ede0; --base-ink:#4a3a2a; --base-soft:rgba(74,58,42,.74);
-  --base-hair:rgba(192,106,67,.3); --base-accent:#a05735; --base-accent-ink:#fff7ee;
-  --alt-bg:#3a2517; --alt-ink:#f6ead9; --alt-soft:rgba(246,234,217,.65);
-  --alt-hair:rgba(224,149,108,.3); --alt-accent:#e0956c; --alt-accent-ink:#3a2517;
-  --panel-bg:#3a2517; --panel-ink:#f6ead9; --panel-soft:rgba(246,234,217,.66);
-  --panel-hair:rgba(224,149,108,.4); --panel-accent:#e0956c;
-  --blob-a:#eecfb4; --blob-b:#c06a43; --blob-c:#d9b98c; --blob-opacity:.5;
-  --dock-glow:rgba(192,106,67,.35); --dock-glow-strong:rgba(192,106,67,.55);
+  --base-bg:#f3f0e7; --base-ink:#2a2529; --base-soft:rgba(42,37,41,.7);
+  --base-hair:rgba(42,37,41,.22); --base-accent:#4a4247; --base-accent-ink:#f3f0e7;
+  --alt-bg:#2a2529; --alt-ink:#f3f0e7; --alt-soft:rgba(243,240,231,.68);
+  --alt-hair:rgba(243,240,231,.22); --alt-accent:#d8d2c4; --alt-accent-ink:#2a2529;
+  --panel-bg:#2a2529; --panel-ink:#f3f0e7; --panel-soft:rgba(243,240,231,.66);
+  --panel-hair:rgba(243,240,231,.3); --panel-accent:#d8d2c4;
+  --blob-a:#d8d2c4; --blob-b:#2a2529; --blob-c:#e8e4d8; --blob-opacity:.4;
+  --dock-glow:rgba(42,37,41,.3); --dock-glow-strong:rgba(42,37,41,.5);
 }
 
 

diff --git a/public/links/pawpawpaw-kb00lze/en/index.html b/public/links/pawpawpaw-kb00lze/en/index.html
@@ -30,17 +30,20 @@
    ============================================================ */
 
 /* ---- Paleta por estilo (inyectada: uno de los 12 estilos cerrados) ---- */
-/* warm-sand - calido, cercano, boutique. Nails / salones / wellness calido.
-   Paleta WOW: arena / crema + terracota. Base clara, alt espresso calido. */
+/* warm-sand (Ink & Ivory) - minimo, editorial y atemporal. Paleta elegida por Vero
+   (Pinterest, 2026-08-02): carbon + marfil palido, dos colores y nada mas.
+   13.2 de contraste: la mas legible de las tres. El acento es el mismo
+   carbon aclarado, para no meter un color que la paleta no tiene.
+   Base marfil, alt carbon. */
 :root{
-  --base-bg:#f6ede0; --base-ink:#4a3a2a; --base-soft:rgba(74,58,42,.74);
-  --base-hair:rgba(192,106,67,.3); --base-accent:#a05735; --base-accent-ink:#fff7ee;
-  --alt-bg:#3a2517; --alt-ink:#f6ead9; --alt-soft:rgba(246,234,217,.65);
-  --alt-hair:rgba(224,149,108,.3); --alt-accent:#e0956c; --alt-accent-ink:#3a2517;
-  --panel-bg:#3a2517; --panel-ink:#f6ead9; --panel-soft:rgba(246,234,217,.66);
-  --panel-hair:rgba(224,149,108,.4); --panel-accent:#e0956c;
-  --blob-a:#eecfb4; --blob-b:#c06a43; --blob-c:#d9b98c; --blob-opacity:.5;
-  --dock-glow:rgba(192,106,67,.35); --dock-glow-strong:rgba(192,106,67,.55);
+  --base-bg:#f3f0e7; --base-ink:#2a2529; --base-soft:rgba(42,37,41,.7);
+  --base-hair:rgba(42,37,41,.22); --base-accent:#4a4247; --base-accent-ink:#f3f0e7;
+  --alt-bg:#2a2529; --alt-ink:#f3f0e7; --alt-soft:rgba(243,240,231,.68);
+  --alt-hair:rgba(243,240,231,.22); --alt-accent:#d8d2c4; --alt-accent-ink:#2a2529;
+  --panel-bg:#2a2529; --panel-ink:#f3f0e7; --panel-soft:rgba(243,240,231,.66);
+  --panel-hair:rgba(243,240,231,.3); --panel-accent:#d8d2c4;
+  --blob-a:#d8d2c4; --blob-b:#2a2529; --blob-c:#e8e4d8; --blob-opacity:.4;
+  --dock-glow:rgba(42,37,41,.3); --dock-glow-strong:rgba(42,37,41,.5);
 }
 
 
